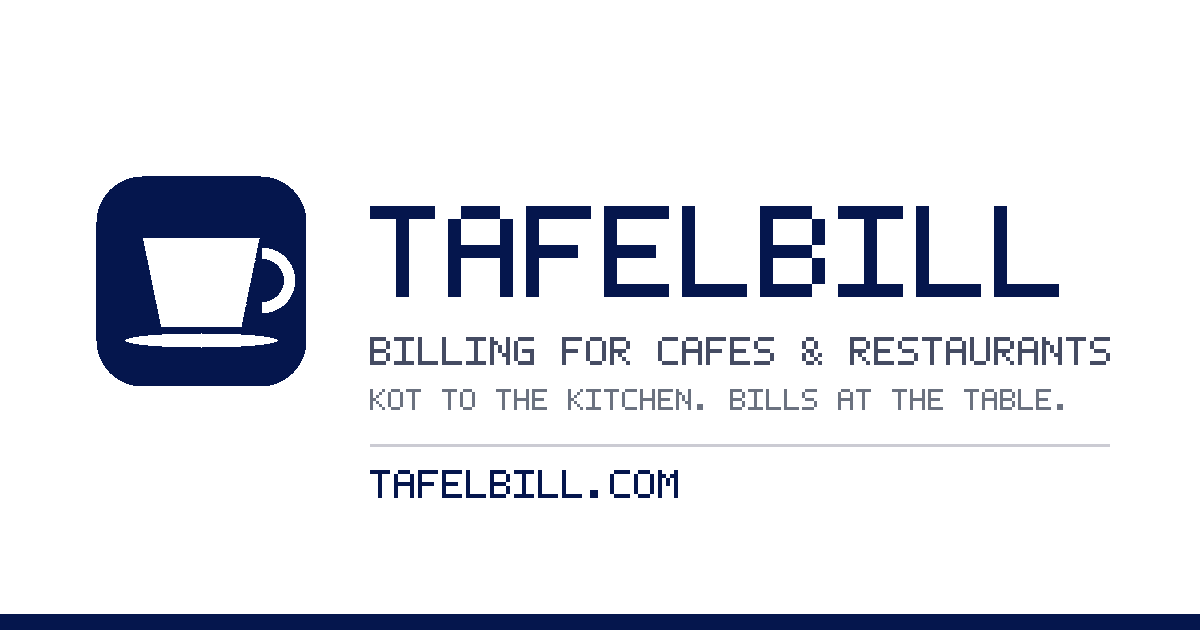
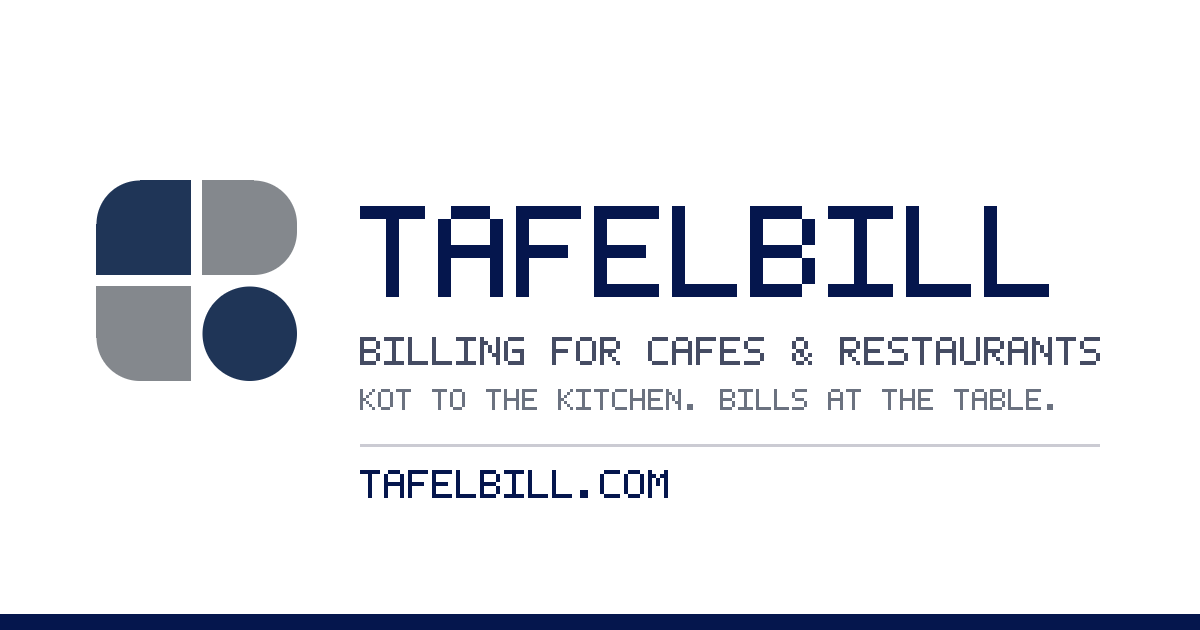
Adopt the TafelBill monogram and its navy
Replaces the placeholder coffee cup with the brand mark: four quadrants
split by a white cross, navy on one diagonal and grey on the other, the
lower right a disc. Drawn as inline SVG so it stays sharp at any size and
costs no extra request, and regenerated into the icons and the link
preview so the mark is consistent wherever it appears first.

The site's navy moves to the logo's #1F3557. It was close to the old
#05164D but not the same, and a wordmark sitting fractionally off its own
site reads as carelessness. The wordmark is set lowercase to match.

diff --git a/index.html b/index.html
@@ -28,7 +28,7 @@
 
 <link rel="icon" href="favicon-192.png" sizes="192x192" type="image/png">
 <link rel="apple-touch-icon" href="favicon-192.png">
-<meta name="theme-color" content="#05164D">
+<meta name="theme-color" content="#1F3557">
 <link rel="preconnect" href="https://fonts.googleapis.com">
 <link rel="preconnect" href="https://fonts.gstatic.com" crossorigin>
 <link href="https://fonts.googleapis.com/css2?family=Inter:wght@400;450;500;600;700&display=swap" rel="stylesheet">
@@ -36,8 +36,9 @@
 :root{
   --ink:#0B1B3F; --ink-2:#4C5566; --muted:#6E7686;
   --cream:#FFFFFF; --card:#FFFFFF; --line:#E4E7EC; --line-2:#EEF0F4;
-  --accent:#05164D; --accent-dark:#0A2263; --accent-soft:#EEF1F7;
-  --slate:#05164D;
+  --accent:#1F3557; --accent-dark:#152741; --accent-soft:#EEF1F7;
+  --slate:#1F3557;
+  --mark-grey:#84888D;
   --soft:#F7F8FA; --bar:#CBCBD3;
   --radius:10px;
   --wrap:1140px;
@@ -75,7 +76,7 @@ header.nav{position:sticky; top:0; z-index:50; background:rgba(255,255,255,.86);
 header.nav.stuck{border-bottom-color:var(--line)}
 .nav-in{display:flex; align-items:center; gap:32px; height:66px}
 .logo{display:flex; align-items:center; gap:9px; font-weight:600; font-size:17.5px; text-decoration:none; letter-spacing:-.028em}
-.logo-mark{width:26px;height:26px;border-radius:6px;background:var(--accent);display:grid;place-items:center;flex-shrink:0}
+.logo-mark{width:26px;height:26px;display:grid;place-items:center;flex-shrink:0}
 .nav-links{display:flex; gap:28px; margin-left:auto; font-size:14.5px; font-weight:450}
 .nav-links a{text-decoration:none; color:var(--ink-2)}
 .nav-links a:hover{color:var(--ink)}
@@ -228,13 +229,14 @@ footer{border-top:1px solid var(--line);padding:52px 0 44px;margin-top:104px}
   <div class="wrap nav-in">
     <a class="logo" href="#top">
       <span class="logo-mark">
-        <svg width="17" height="17" viewBox="0 0 120 128" aria-hidden="true">
-          <path d="M30 36 h60 l-6 58 a11 11 0 0 1 -11 10 h-26 a11 11 0 0 1 -11 -10 z" fill="#FFFFFF"/>
-          <path d="M30 36 h60 l-1.6 15 h-56.8 z" fill="#9FB0D6"/>
-          <path d="M90 48 h7 a13 13 0 0 1 0 26 h-4" fill="none" stroke="#fff" stroke-width="7"/>
+        <svg width="26" height="26" viewBox="0 0 100 100" aria-hidden="true">
+          <path d="M10 27.1A17.1 17.1 0 0 1 27.1 10h20.15v37.25H10Z" fill="#1F3557"/>
+          <path d="M52.75 10H72.9A17.1 17.1 0 0 1 90 27.1v3.05A17.1 17.1 0 0 1 72.9 47.25H52.75Z" fill="#84888D"/>
+          <path d="M10 52.75h37.25V90H27.1A17.1 17.1 0 0 1 10 72.9Z" fill="#84888D"/>
+          <circle cx="71.375" cy="71.375" r="18.625" fill="#1F3557"/>
         </svg>
       </span>
-      TafelBill
+      tafelbill
     </a>
     <button class="nav-toggle" id="navToggle" aria-label="Menu" aria-expanded="false">&#9776;</button>
     <nav class="nav-links" id="navLinks">
@@ -491,13 +493,14 @@ footer{border-top:1px solid var(--line);padding:52px 0 44px;margin-top:104px}
   <div class="wrap foot">
     <a class="logo" href="#top">
       <span class="logo-mark">
-        <svg width="17" height="17" viewBox="0 0 120 128" aria-hidden="true">
-          <path d="M30 36 h60 l-6 58 a11 11 0 0 1 -11 10 h-26 a11 11 0 0 1 -11 -10 z" fill="#FFFFFF"/>
-          <path d="M30 36 h60 l-1.6 15 h-56.8 z" fill="#9FB0D6"/>
-          <path d="M90 48 h7 a13 13 0 0 1 0 26 h-4" fill="none" stroke="#fff" stroke-width="7"/>
+        <svg width="26" height="26" viewBox="0 0 100 100" aria-hidden="true">
+          <path d="M10 27.1A17.1 17.1 0 0 1 27.1 10h20.15v37.25H10Z" fill="#1F3557"/>
+          <path d="M52.75 10H72.9A17.1 17.1 0 0 1 90 27.1v3.05A17.1 17.1 0 0 1 72.9 47.25H52.75Z" fill="#84888D"/>
+          <path d="M10 52.75h37.25V90H27.1A17.1 17.1 0 0 1 10 72.9Z" fill="#84888D"/>
+          <circle cx="71.375" cy="71.375" r="18.625" fill="#1F3557"/>
         </svg>
       </span>
-      TafelBill
+      tafelbill
     </a>
     <div class="foot-links">
       <a href="#features">Features</a>
